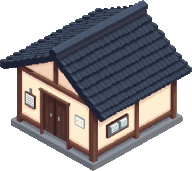
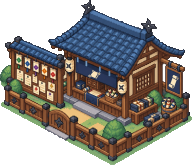
Arte nova da Mesa de Missões e da Arena; prédio único já feito sai da lista
- Mesa de Missões: balcão de entrega de missões com quadro de pedidos e selos por rank
- Arena do Exame ganha arte (antes era só desenho por código): piso de pedra, círculo, arquibancada, gongo e bandeiras
- Barra de construção esconde o prédio único que a vila já tem (volta se for demolido)

diff --git a/src/render/art.ts b/src/render/art.ts
@@ -77,6 +77,7 @@ import chest from '../art/chest.png';
 import cave from '../art/cave.png';
 import port from '../art/port.png';
 import kennel from '../art/kennel.png';
+import arena from '../art/arena.png';
 import intel from '../art/intel.png';
 import puppetshop from '../art/puppetshop.png';
 import dog from '../art/dog.png';
@@ -91,7 +92,7 @@ const URLS: Record<string, string> = { hokage, house, lumber, quarry, market, ac
   // níveis de upgrade dos prédios e o guarda da torre
   'house-2': house2, 'house-3': house3, 'lumber-2': lumber2, 'lumber-3': lumber3, 'quarry-2': quarry2, 'quarry-3': quarry3, 'market-2': market2, 'market-3': market3, 'tower-2': tower2, 'tower-3': tower3, 'hospital-2': hospital2, 'hospital-3': hospital3, 'farm-2': farm2, 'farm-3': farm3, 'training-2': training2, 'training-3': training3, 'tower-guard': towerGuard,
   'academy-2': academy2, 'academy-3': academy3, 'hokage-2': hokage2, 'hokage-3': hokage3, 'hokage-4': hokage4,
-  'ninja-hair-spiky': hairSpiky, 'ninja-hair-ponytail': hairPonytail, 'ninja-hair-short': hairShort, 'ninja-hair-long': hairLong, 'ninja-hair-buns': hairBuns, 'ninja-hair-bald': hairBald, snake, crow, monkey, spider, tiger, rhino, hydra, golem, puppet, ruin, chest, cave, port, kennel, intel, puppetshop, dog, 'dog-white': dogWhite, 'dog-pug': dogPug, 'dog-bull': dogBull, toad, slug };
+  'ninja-hair-spiky': hairSpiky, 'ninja-hair-ponytail': hairPonytail, 'ninja-hair-short': hairShort, 'ninja-hair-long': hairLong, 'ninja-hair-buns': hairBuns, 'ninja-hair-bald': hairBald, snake, crow, monkey, spider, tiger, rhino, hydra, golem, puppet, ruin, chest, cave, port, kennel, arena, intel, puppetshop, dog, 'dog-white': dogWhite, 'dog-pug': dogPug, 'dog-bull': dogBull, toad, slug };
 
 /**
  * Folhas de sprite no padrão de scripts/sprite-template.py: 4 quadros (ciclo de caminhada) × 3 linhas
@@ -116,6 +117,7 @@ export const ART_SCALE: Record<string, number> = {
   quarry: 0.8, 'quarry-2': 1.08, 'quarry-3': 1.26,
   'tower-3': 1.06,
   'hokage-4': 1.12,
+  missions: 1.25,
 };
 
 export const artUrl = (name: string): string | null => URLS[name] ?? null;

diff --git a/src/ui/build.ts b/src/ui/build.ts
@@ -112,8 +112,14 @@ export class BuildUI {
 
   update() {
     if (this.bar.hidden) return;
+    const g = this.app.game;
     this.bar.querySelectorAll<HTMLElement>('[data-type]').forEach((c) => {
-      const r = canBuild(this.app.game, c.dataset.type as BuildingType);
+      const type = c.dataset.type as BuildingType;
+      // prédio único que a vila já tem (pronto ou em obra) sai da lista; volta se for demolido
+      const have = !!BUILDINGS[type].unique && g.state.buildings.some((b) => b.type === type);
+      if (c.hidden !== have) c.hidden = have;
+      if (have) return;
+      const r = canBuild(g, type);
       c.classList.toggle('off', !r.ok);
       const min = BUILDINGS[c.dataset.type as BuildingType].minLevel ?? 0;
       const lock = min > this.app.game.state.level ? `{lock} ${levelDef(min).name}` : '';

diff --git a/scripts/prepare-art.py b/scripts/prepare-art.py
@@ -19,7 +19,7 @@ OUT.mkdir(parents=True, exist_ok=True)
 # largura final (px) = 2 × largura do losango na cena = 2 × 0,75 × 32 × (w + h) tiles
 BUILDINGS = {'hokage': 6, 'house': 4, 'lumber': 4, 'quarry': 4, 'market': 4, 'academy': 6, 'hospital': 5, 'tower': 2.6,
              'library': 5, 'missions': 4, 'ironmine': 4, 'forge': 4, 'pharmacy': 4, 'sealshop': 4, 'monument': 6,
-             'farm': 6, 'training': 6, 'herbgarden': 4, 'port': 5, 'kennel': 4, 'intel': 3.2, 'puppetshop': 4}
+             'farm': 6, 'training': 6, 'herbgarden': 4, 'port': 5, 'kennel': 4, 'intel': 3.2, 'puppetshop': 4, 'arena': 8}
 FLIP = {'lumber', 'quarry', 'market', 'academy', 'tower'}
 # níveis de upgrade (<tipo>-2, <tipo>-3): mesma largura e mesmo espelhamento do nível 1
 for _name in list(BUILDINGS):
